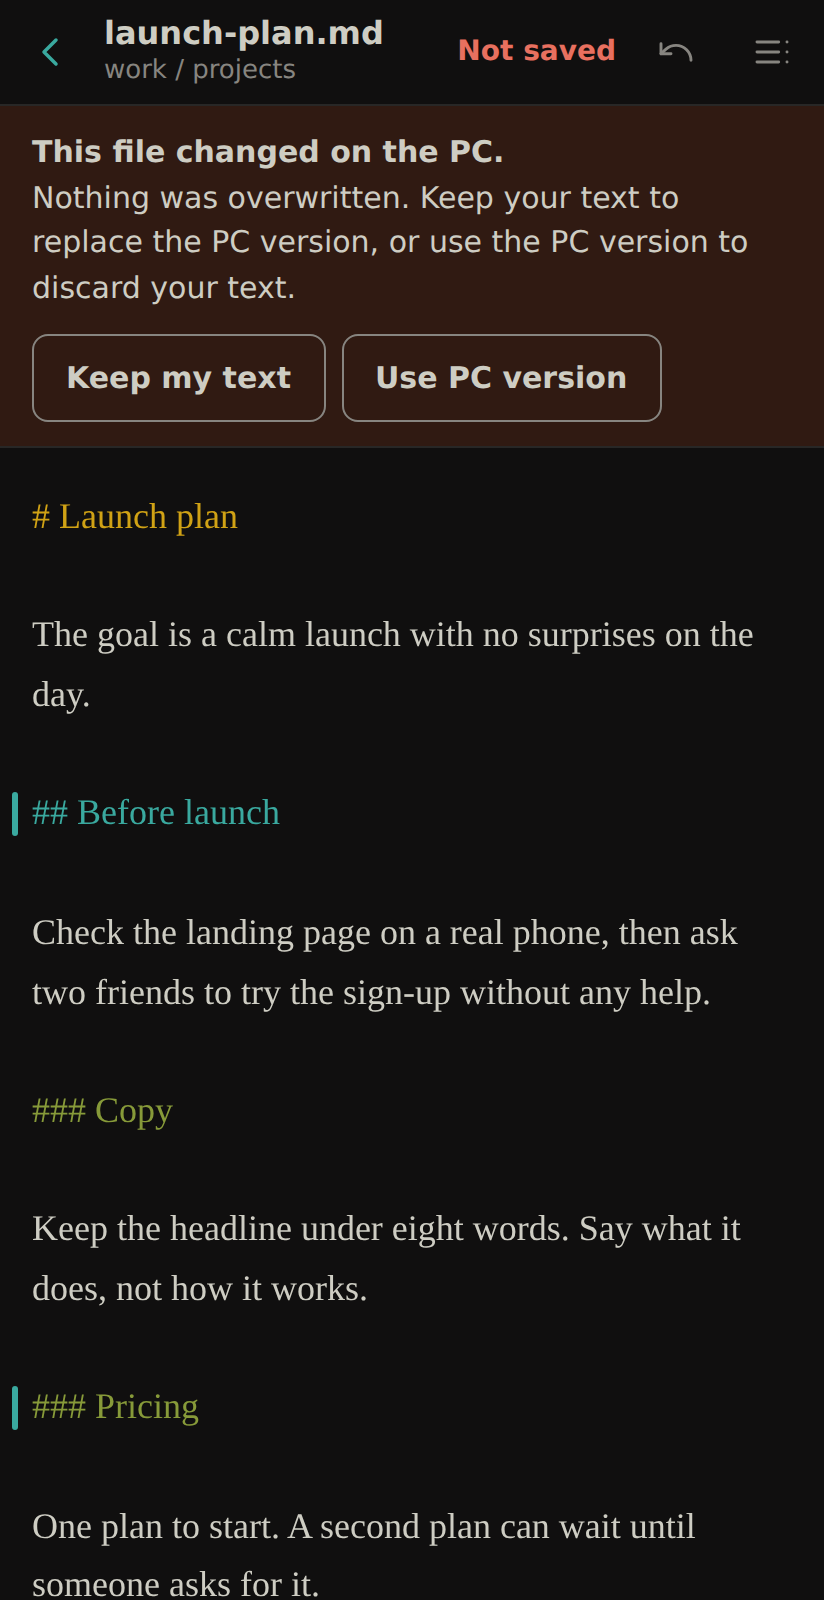
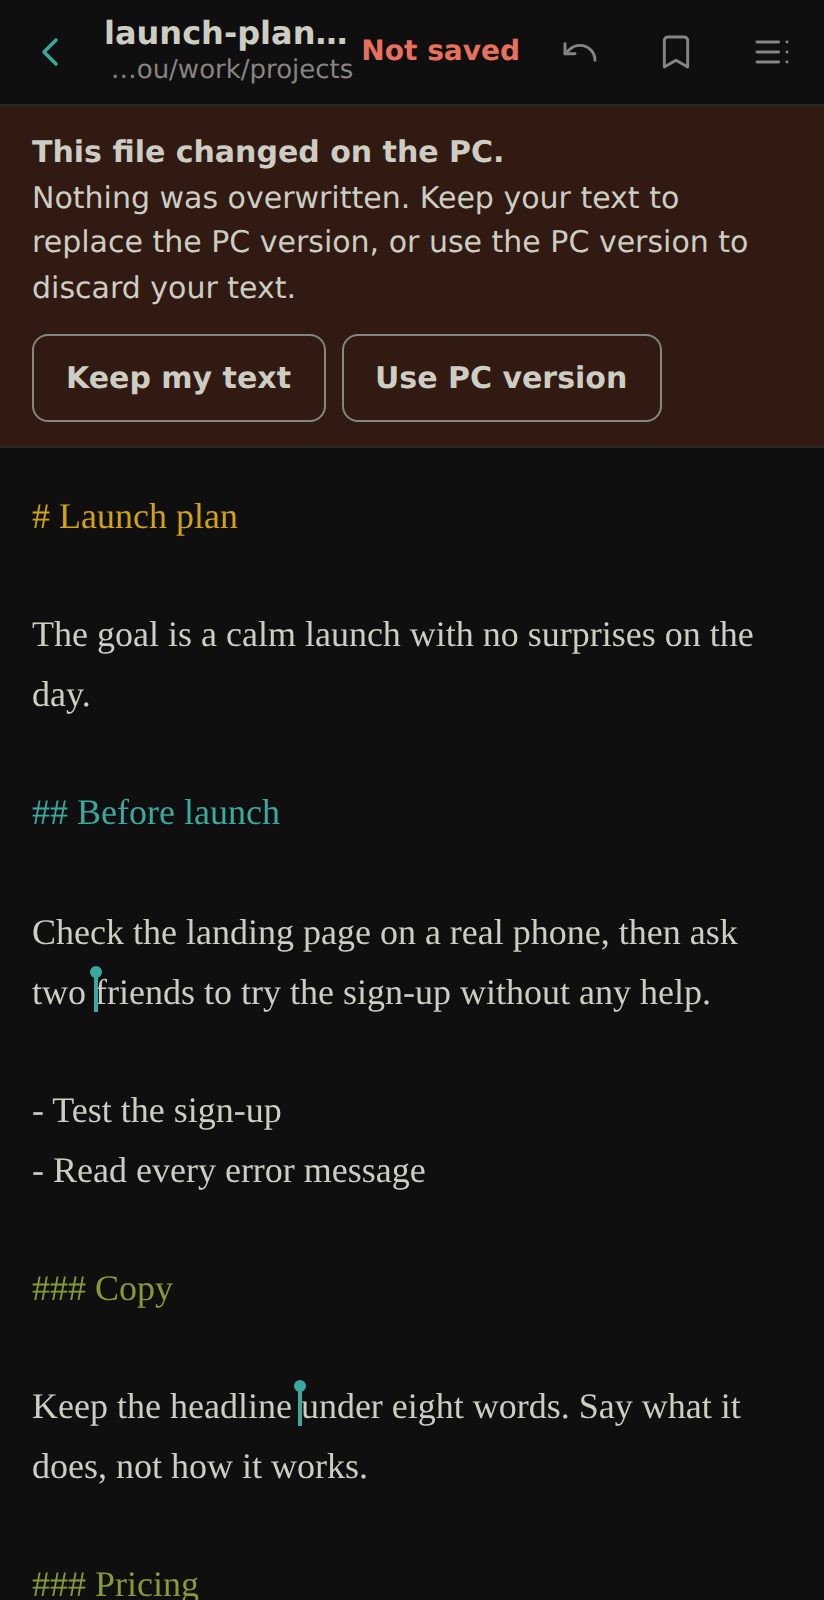
docs: refresh screenshots and describe the new features

diff --git a/README.md b/README.md
@@ -10,17 +10,25 @@ A small [Bun](https://bun.com) server with no runtime dependencies and one HTML 
 
 <table>
   <tr>
-    <td><img src="docs/screenshots/mobile-home.png" alt="Home screen with allowed folders and a Pinned section showing each file's path" width="200"></td>
+    <td><img src="docs/screenshots/mobile-home.png" alt="Home screen with folders grouped by Windows and WSL, and pinned files with their full paths" width="200"></td>
     <td><img src="docs/screenshots/mobile-folder.png" alt="Folder view with subfolders and files that can be pinned" width="200"></td>
-    <td><img src="docs/screenshots/mobile-editor.png" alt="A note open in the editor with colored headings" width="200"></td>
-    <td><img src="docs/screenshots/mobile-contents.png" alt="Contents sheet listing the note's headings, with top and bottom buttons" width="200"></td>
-    <td><img src="docs/screenshots/mobile-conflict.png" alt="Warning that the file changed on the PC, offering to keep either version" width="200"></td>
+    <td><img src="docs/screenshots/mobile-editor.png" alt="A note with colored headings, two marks in the text, and a Mark button floating at the cursor" width="200"></td>
+    <td><img src="docs/screenshots/mobile-contents.png" alt="Contents sheet with bullet point and mark counts for each heading" width="200"></td>
   </tr>
   <tr>
     <td align="center">Home</td>
     <td align="center">Folder</td>
-    <td align="center">Editor</td>
+    <td align="center">Editor and marks</td>
     <td align="center">Contents</td>
+  </tr>
+  <tr>
+    <td><img src="docs/screenshots/mobile-marks.png" alt="Marks list showing the text around each mark, its line and its heading" width="200"></td>
+    <td><img src="docs/screenshots/mobile-changes.png" alt="Word-level diff of what changed since the last review, with Discard and Mark as reviewed buttons" width="200"></td>
+    <td><img src="docs/screenshots/mobile-conflict.png" alt="Warning that the file changed on the PC, offering to keep either version" width="200"></td>
+  </tr>
+  <tr>
+    <td align="center">Marks</td>
+    <td align="center">Changes</td>
     <td align="center">Conflict</td>
   </tr>
 </table>
@@ -29,42 +37,51 @@ A small [Bun](https://bun.com) server with no runtime dependencies and one HTML 
 
 <table>
   <tr>
-    <td><img src="docs/screenshots/desktop-home.png" alt="Home screen on a desktop browser" width="400"></td>
-    <td><img src="docs/screenshots/desktop-folder.png" alt="Folder view on a desktop browser" width="400"></td>
+    <td><img src="docs/screenshots/desktop-home.png" alt="Home screen with folders grouped by Windows and WSL, and pinned files with their full paths" width="400"></td>
+    <td><img src="docs/screenshots/desktop-folder.png" alt="Folder view with subfolders and files that can be pinned" width="400"></td>
   </tr>
   <tr>
     <td align="center">Home</td>
     <td align="center">Folder</td>
   </tr>
   <tr>
-    <td><img src="docs/screenshots/desktop-editor.png" alt="A note with colored headings on a desktop browser" width="400"></td>
-    <td><img src="docs/screenshots/desktop-contents.png" alt="Contents sheet on a desktop browser" width="400"></td>
+    <td><img src="docs/screenshots/desktop-editor.png" alt="A note with colored headings, two marks in the text, and a Mark button floating at the cursor" width="400"></td>
+    <td><img src="docs/screenshots/desktop-contents.png" alt="Contents sheet with bullet point and mark counts for each heading" width="400"></td>
   </tr>
   <tr>
-    <td align="center">Editor</td>
+    <td align="center">Editor and marks</td>
     <td align="center">Contents</td>
   </tr>
   <tr>
-    <td colspan="2" align="center"><img src="docs/screenshots/desktop-conflict.png" alt="Conflict warning on a desktop browser" width="400"></td>
+    <td><img src="docs/screenshots/desktop-marks.png" alt="Marks list showing the text around each mark, its line and its heading" width="400"></td>
+    <td><img src="docs/screenshots/desktop-changes.png" alt="Word-level diff of what changed since the last review, with Discard and Mark as reviewed buttons" width="400"></td>
   </tr>
   <tr>
-    <td colspan="2" align="center">Conflict</td>
+    <td align="center">Marks</td>
+    <td align="center">Changes</td>
+  </tr>
+  <tr>
+    <td><img src="docs/screenshots/desktop-conflict.png" alt="Warning that the file changed on the PC, offering to keep either version" width="400"></td>
+  </tr>
+  <tr>
+    <td align="center">Conflict</td>
   </tr>
 </table>
 
-The notes in these screenshots are made up.
+The notes and folder paths in these screenshots are made up.
 
 ## Features
 
-- Browse folders you allow, then open, edit or create `.md` files
+- Browse folders you allow, grouped by Windows and WSL with their full paths, then open, edit or create `.md` files
 - Autosave, with a draft kept on the phone if the connection drops
 - Conflict detection through `ETag` and `If-Match`
 - Keeps BOMs and Windows line endings, and refuses files that are not UTF-8
 - Pin files to the top of their folder and to a Pinned section on the home screen (pins are stored in that browser)
-- Contents sheet built from the note's headings, with jumps to the top and bottom (opens by itself on notes with 5 or more headings)
+- Contents sheet built from the note's headings, with jumps to the top and bottom (opens by itself on notes with 5 or more headings, and shows how many bullet points and marks each heading has)
 - Colored headings that are display only, so nothing is added to the file
+- GitHub-style word diff of what an AI or another program changed since you last reviewed the note. A note with changes opens straight at the first one, with one tap to accept or discard them (text typed in that browser isn't counted)
 - Undo and redo buttons that also survive closing the tab, for when a whole block gets deleted by mistake
-- Mark several spots in a note and jump back to any of them (marks follow their line as you edit, and are stored in that browser)
+- Mark the exact cursor position from a button that floats at the cursor, and jump back from a Marks list (marks follow their character as you edit, and are stored in that browser)
 - Each note reopens where you left it, and every folder and note has its own URL
 
 ## Setup
@@ -105,3 +122,5 @@ bun test
 ## License
 
 [MIT](LICENSE)
+
+`vendor/diff.js` is a minified build of [jsdiff](https://github.com/kpdecker/jsdiff), BSD-3-Clause, see `vendor/diff.LICENSE`. Rebuild it with `bun run vendor`.
